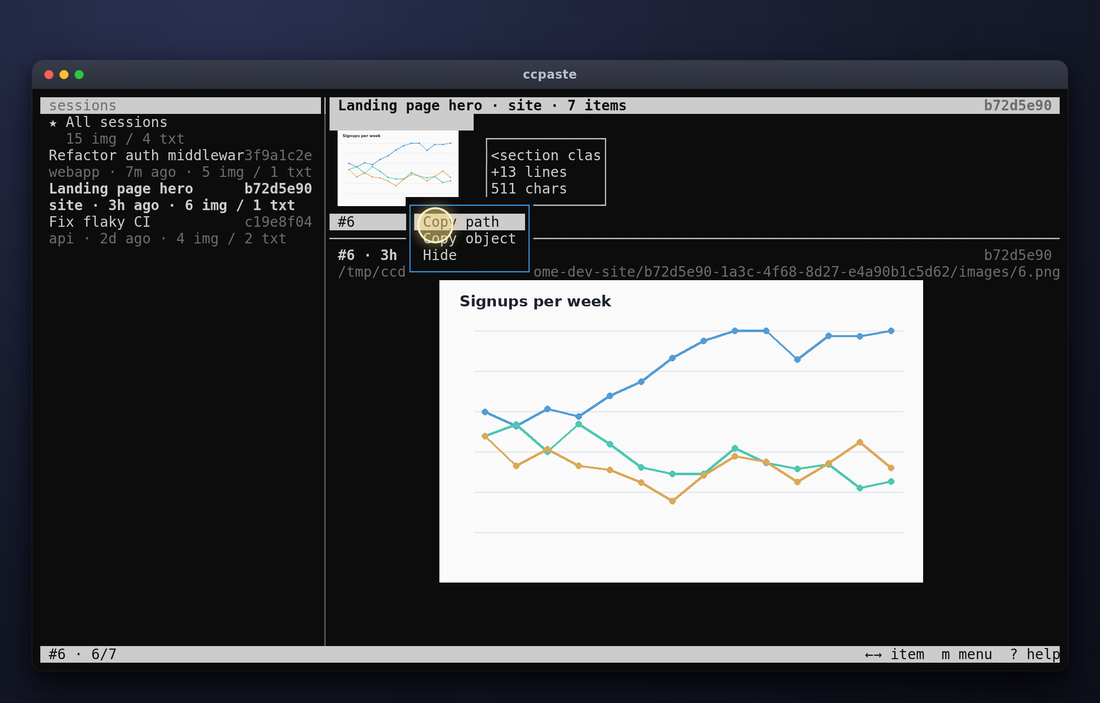
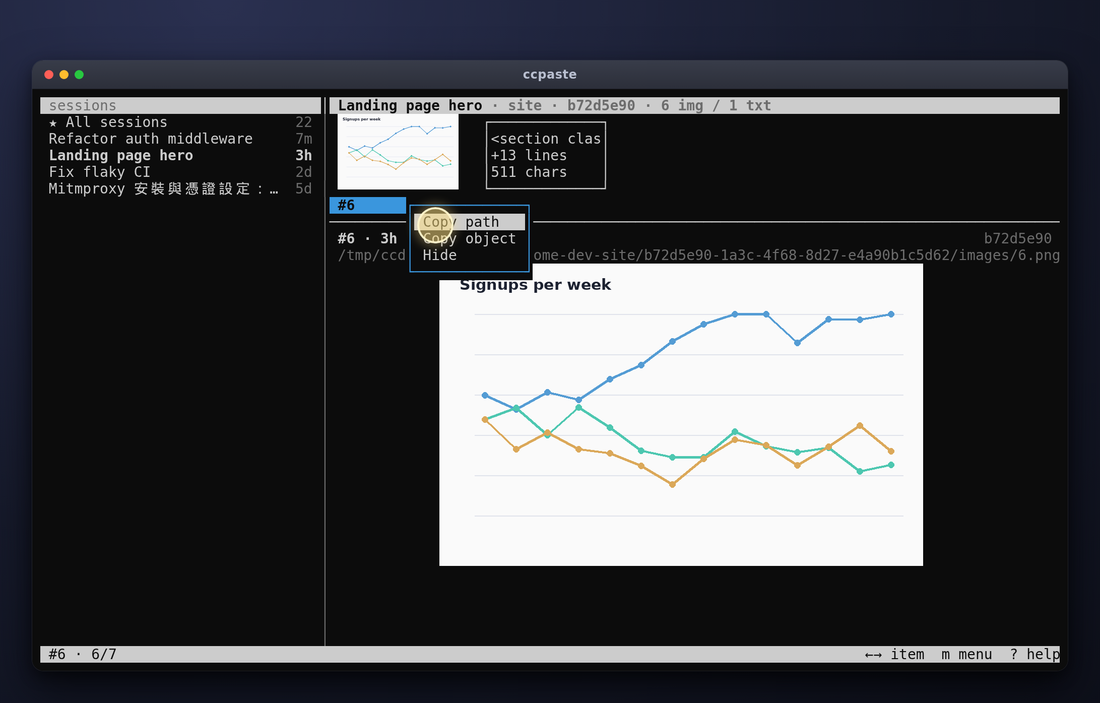
feat: one-line sidebar rows, session details in the header
Two rows per session with the id glued to the title read as noise on real
data. Rows are now title plus a dim age; project, id and counts move to
the header, where a long title is cut so they stay visible. The empty bar
above each thumbnail is gone and the selected label is highlighted.

diff --git a/tests/test_ccpaste.py b/tests/test_ccpaste.py
@@ -130,14 +130,14 @@ class T(unittest.TestCase):
         L = ccpaste.layout(120, 40, 7, 6)
         self.assertEqual(L["per_row"], 7)
         self.assertEqual(L["strip_rows"], 1)
-        self.assertEqual(L["prev_top"], 1 + 7 + 1)
-        self.assertEqual(L["prev_h"], 40 - 9 - 1)
-        self.assertEqual(L["body_top"], 11)
+        self.assertEqual(L["prev_top"], 1 + 6 + 1)
+        self.assertEqual(L["prev_h"], 40 - 8 - 1)
+        self.assertEqual(L["body_top"], 10)
         self.assertEqual(L["tw"], 17)               # 120 cols / 7 cells, stretched to the pane width
         self.assertEqual(ccpaste.tw_for(40), (2, 20))
-        L = ccpaste.layout(120, 40, 30, 29)       # 5 rows of thumbs, 1 visible, scrolled to selection
-        self.assertEqual(L["first_row"], 4)
-        self.assertEqual(ccpaste.cell_pos(L, 29)[0], 1)
+        L = ccpaste.layout(120, 40, 30, 29)       # 5 rows of thumbs, 2 visible, scrolled to selection
+        self.assertEqual((L["strip_rows"], L["first_row"]), (2, 3))
+        self.assertEqual(ccpaste.cell_pos(L, 29)[0], 1 + ccpaste.TH)
         self.assertIsNone(ccpaste.cell_pos(L, 0))
         self.assertEqual(ccpaste.fit_pixels(2000, 1000, 800, 600), (800, 400))
         self.assertEqual(ccpaste.fit_pixels(10, 10, 800, 600), (10, 10))
@@ -205,15 +205,16 @@ class T(unittest.TestCase):
             self.assertEqual(by["aaaa1111"]["proj"], "projA")
             self.assertAlmostEqual(by["aaaa1111"]["ts"], now - 5000, delta=2)   # latest history ts beats image mtime
             self.assertEqual(len(ccpaste.match_sessions("dddd")), 1)                # -s still sees empty sessions
-            l1, l2, idt = ccpaste.side_row(ss[2], 40, time.time())
-            self.assertTrue(idt.startswith("aaaa1111"))
-            self.assertIn("projA", l2)
-            self.assertIn("2 img / 1 txt", l2)
-            self.assertEqual(sum(ccpaste.cwidth(ch) for ch in l1 + idt), 40)
+            l1, tm = ccpaste.side_row(ss[2], 40, time.time())
+            self.assertEqual(tm, "1h ")                               # latest history ts = 5000s ago
+            self.assertTrue(l1.startswith(" first"))
+            self.assertNotIn("aaaa1111", l1 + tm)                     # id, project and counts left the sidebar
+            self.assertNotIn("projA", l1 + tm)
+            self.assertEqual(sum(ccpaste.cwidth(ch) for ch in l1 + tm), 40)
             self.assertEqual(by["aaaa1111"]["title"], "first \u4e2d\u6587 prompt [Pasted text #2 +3 lines]")   # no transcript -> prompt
             allrow = ccpaste.all_entry(ss)
             self.assertEqual(ccpaste.side_row(allrow, 40)[0].strip(), "\u2605 All sessions")
-            self.assertIn("3 img / 2 txt", ccpaste.side_row(allrow, 40)[1])
+            self.assertEqual(ccpaste.side_row(allrow, 40)[1], "5 ")
             # All view: every session's items, time ordered, newest last, labels carry the 4-char session prefix
             allitems = ccpaste.list_items_all(ss)
             self.assertEqual([i.dlabel(True) for i in allitems],
@@ -543,10 +544,9 @@ class T(unittest.TestCase):
                 self.assertEqual(app.hit(5, 0), ("header",))
                 self.assertEqual(app.hit(5, rows - 1), ("footer",))
                 self.assertEqual(app.hit(2, 1), ("side", 0))
-                self.assertEqual(app.hit(2, 2), ("side", 0))          # a row is two lines
-                self.assertEqual(app.hit(2, 3), ("side", 1))
-                self.assertEqual(app.hit(2, 5), ("side", 2))
-                self.assertEqual(app.hit(2, 7), ("side_blank",))
+                self.assertEqual(app.hit(2, 2), ("side", 1))          # one line per session
+                self.assertEqual(app.hit(2, 3), ("side", 2))
+                self.assertEqual(app.hit(2, 4), ("side_blank",))
                 self.assertEqual(app.hit(x0 - 1, 10), ("divider",))
                 self.assertEqual(app.hit(x0 + 1, L["strip_top"] + 1), ("thumb", 0))
                 self.assertEqual(app.hit(x0 + L["tw"] + 1, L["strip_top"] + 3), ("thumb", 1))
@@ -559,6 +559,135 @@ class T(unittest.TestCase):
                 app.L()
                 self.assertEqual(app.x0, 0)
                 self.assertEqual(app.hit(1, app.L()["strip_top"] + 1), ("thumb", 0))
+
+    def test_sidebar_one_row_per_session(self):
+        import unittest.mock as um
+        now = 1e6
+        ents = [dict(sid="s%d" % i, proj="proj", title="title %d" % i, ts=now - 86400 * 37, nimg=1, ntxt=1, prompt="")
+                for i in range(6)]
+        for sbw in (22, 33, 42):
+            for e in ents:
+                l, tm = ccpaste.side_row(e, sbw, now)
+                self.assertEqual(tm, "37d ")
+                self.assertEqual(sum(ccpaste.cwidth(ch) for ch in l + tm), sbw)
+                self.assertNotIn("\n", l)
+        with um.patch.object(ccpaste, "winsize", return_value=(40, 120, 0, 0)):
+            app = ccpaste.App()
+            app.rows = ents
+            app.x0 = 34
+            app.sel_sid = "s2"
+            app._out = []
+            app.w = app._out.append
+            app.blank = lambda *a: None
+            app.draw_sidebar(40)
+            out = "".join(app._out)
+            for k in range(6):                                   # session k sits on screen row 1 + k, nothing between
+                self.assertIn("\x1b[%d;1H" % (2 + k), out)
+            self.assertNotIn("\x1b[8;1H", out)
+            self.assertNotIn("proj", out)
+            for k in range(6):
+                self.assertEqual(app.hit(3, 1 + k), ("side", k))
+
+    def test_sidebar_title_time_gap_and_cjk(self):
+        now = 1e6
+        w = ccpaste.cwidth
+        for title in ("short", "x" * 80, "\u4e2d\u6587\u6a19\u984c" * 12, "a\u4e2d" * 30):
+            for sbw in (22, 23, 30, 42):
+                e = dict(sid="s1", proj="p", title=title, ts=now - 7 * 60, nimg=0, ntxt=0, prompt="")
+                l, tm = ccpaste.side_row(e, sbw, now)
+                self.assertEqual(tm, "7m ")
+                self.assertEqual(sum(w(ch) for ch in l + tm), sbw)
+                self.assertTrue(l.endswith("  "), (title, sbw, l))     # always >= 2 spaces before the time
+                if len(title) > 8 and sum(w(ch) for ch in " " + title) > sbw - 5:
+                    self.assertIn("\u2026", l)
+        self.assertEqual([ccpaste.rel_short(1000 - d, 1000) for d in (0, 59, 60, 7 * 60, 3 * 3600, 37 * 86400)],
+                         ["now", "now", "1m", "7m", "3h", "37d"])
+        self.assertEqual(ccpaste.side_row(dict(sid="s", proj="p", title="t", ts=0, nimg=0, ntxt=0, hidden=True), 30, 60)[0][:3],
+                         " \u2298 ")
+
+    def test_header_content(self):
+        parts = ["Louis", "c4045b9d", "0 img / 1 txt"]
+        full = " Mitmproxy \u5b89\u88dd \u00b7 Louis \u00b7 c4045b9d \u00b7 0 img / 1 txt"
+        for w in (sum(ccpaste.cwidth(ch) for ch in full) + 1, 80):
+            p, s = ccpaste.header_line("Mitmproxy \u5b89\u88dd", parts, w)
+            self.assertEqual((p + s).rstrip(), full)
+            self.assertEqual(p, " Mitmproxy \u5b89\u88dd")                 # primary and dimmed secondary are separate strings
+            self.assertTrue(s.startswith(" \u00b7 Louis"))
+            self.assertEqual(sum(ccpaste.cwidth(ch) for ch in p + s), w)
+        for w in (30, 40, 50):                                          # parts that do not fit are dropped, order kept
+            p, s = ccpaste.header_line("Mitmproxy \u5b89\u88dd", parts, w)
+            self.assertEqual(sum(ccpaste.cwidth(ch) for ch in p + s), w)
+            self.assertTrue(full.startswith((p + s).rstrip()))
+        self.assertNotIn("txt", "".join(ccpaste.header_line("Mitmproxy \u5b89\u88dd", parts, 40)))
+        p, s = ccpaste.header_line("x" * 100, parts, 71)                # long title: cut to make room, parts stay
+        self.assertTrue(p.rstrip().endswith("\u2026"))
+        self.assertIn("0 img / 1 txt", s)
+        self.assertEqual(sum(ccpaste.cwidth(ch) for ch in p + s), 71)
+        p, s = ccpaste.header_line("x" * 100, parts, 30)                # very narrow: title keeps half, extra parts drop
+        self.assertGreaterEqual(sum(ccpaste.cwidth(ch) for ch in p.rstrip()), 15)
+        self.assertNotIn("txt", s)
+        self.assertEqual(sum(ccpaste.cwidth(ch) for ch in p + s), 30)
+
+    def test_header_drawn_for_selected_session(self):
+        import unittest.mock as um
+        with um.patch.object(ccpaste, "winsize", return_value=(40, 120, 0, 0)):
+            app = self._app_with_items(1)
+            app.x0, app.title, app.project = 34, "Mitmproxy", "Louis"
+            app._out = []
+            app.w = app._out.append
+            app.header(120)
+            out = "".join(app._out)
+            self.assertIn("Mitmproxy", out)
+            self.assertIn(" \u00b7 Louis \u00b7 s1 \u00b7 0 img / 1 txt", out)
+
+    def test_strip_has_no_bar_row(self):
+        import unittest.mock as um
+        self.assertEqual(ccpaste.TH, ccpaste.THUMB_ROWS + 1)             # image rows + label, no bar
+        with um.patch.object(ccpaste, "winsize", return_value=(40, 120, 0, 0)):
+            app = self._app_with_items(3)
+            L = app.L()
+            self.assertEqual(L["sep"], L["strip_top"] + ccpaste.TH)
+            self.assertEqual(ccpaste.cell_pos(L, 0)[0], L["strip_top"])
+            app._out = []
+            app.w = app._out.append
+            app.blankx = lambda *a: None
+            app.chrome(L, 1, True)
+            out = "".join(app._out)
+            self.assertEqual(out.count("\x1b["+str(L["strip_top"] + ccpaste.TH) + ";"), 1)   # one write: the label row only
+            self.assertIn("1;7;36m", out)                               # selected label in highlight colour
+            self.assertEqual(out.count("\x1b[0m"), 1)
+            app._out.clear()
+            app.chrome(L, 0, False)
+            self.assertIn("\x1b[2m", "".join(app._out))
+            app._out.clear()
+            app.text_thumb(L["strip_top"], 0, L["tw"], app.items[0])    # text box starts on the first strip row
+            self.assertTrue(app._out[0].startswith("\x1b[%d;" % (L["strip_top"] + 1)))
+            self.assertEqual(len(app._out), 5)
+            app.items.append(ccpaste.Item("img", 9, path="/nonexistent/9.png", sid="s1", ts=1.0))
+            thumbs = [p for p in app.placements() if p["kind"] == "thumb"]
+            self.assertEqual(len(thumbs), 1)                            # the image cell gets a sixel placement
+            r0 = ccpaste.cell_pos(L, len(app.items) - 1)[0]
+            self.assertEqual(thumbs[0]["r"], r0)                        # image starts on the cell's first row ...
+            self.assertEqual(thumbs[0]["r"] + thumbs[0]["h"], r0 + ccpaste.TH - 1)   # ... and stops above the label
+            app.items.pop()
+            for k in range(ccpaste.TH):                                # every strip row hits a thumbnail, none is a dead bar
+                self.assertEqual(app.hit(app.x0 + 1, L["strip_top"] + k), ("thumb", 0))
+
+    def test_click_sidebar_row_selects_session(self):
+        import unittest.mock as um
+        with um.patch.object(ccpaste, "winsize", return_value=(40, 120, 0, 0)):
+            app = self._app_with_items()
+            app.sel_sid = "*"
+            app.refresh = lambda *a, **k: None
+            app.set_focus = lambda f: setattr(app, "focus", f)
+            for n in (1, 2, 0):
+                app.on_mouse(dict(kind="down", btn=0, x=3, y=1 + n))
+                app.on_mouse(dict(kind="up", btn=0, x=3, y=1 + n))
+                self.assertEqual(app.sel_sid, app.rows[n]["sid"])
+            app.rows = app.rows + [dict(sid="x%d" % i, proj="p", title="t", ts=0, nimg=1, ntxt=0, prompt="") for i in range(60)]
+            app.sfirst = 0
+            app.on_wheel(dict(dir="down", x=3, y=2))
+            self.assertEqual(app.sfirst, 1)
 
     def test_selection_text_cjk_multiline(self):
         lines = ["hello world", "\u4e2d\u6587\u5b57\u7b26 test", "third line"]
@@ -720,7 +849,7 @@ class T(unittest.TestCase):
             self.assertIn(b"\x1b[?1002h", buf)                       # mouse tracking enabled
             self.assertIn(b"\x1b[?1006h", buf)
             x0 = ccpaste.sidebar_geom(120)[1]
-            send("\x1b[<0;5;4M\x1b[<0;5;4m", 0.8)                  # click sidebar row (All sessions is row 0; this is row 1)
+            send("\x1b[<0;5;3M\x1b[<0;5;3m", 0.8)                  # click sidebar row (All sessions is row 0; this is row 1)
             send("\x1b[<0;%d;3M\x1b[<0;%d;3m" % (x0 + 4, x0 + 4), 0.8)          # click first thumbnail (the image)
             self.assertIn(b"\x1bP9;1q", buf)                         # sixel emitted
             send("\x1b[<65;%d;3M" % (x0 + 4))                       # wheel over thumbnails -> next item (text)
@@ -994,14 +1123,13 @@ class T(unittest.TestCase):
             ev = ccpaste.InputParser().feed("\x1b[<%d;5;5M" % cb)[0][1]
             self.assertEqual(ev["kind"], kind, cb)
         self.assertNotEqual(ccpaste.InputParser().feed("\x1b[<128;5;5M")[0][1]["kind"], "scroll")
-        with um.patch.object(ccpaste, "winsize", return_value=(39, 120, 0, 0)):      # rows-2 odd: last line is blank
+        with um.patch.object(ccpaste, "winsize", return_value=(39, 120, 0, 0)):      # 25 rows: lines below are blank
             app = ccpaste.App()
             app.rows = [dict(sid="s%d" % i, proj="p", title="t", ts=0, nimg=1, ntxt=0, prompt="") for i in range(25)]
-            self.assertEqual(app.hit(2, 36), ("side", 17))
-            self.assertEqual(app.hit(2, 35), ("side", 17))
-            self.assertEqual(app.hit(2, 37), ("side_blank",))
+            self.assertEqual(app.hit(2, 25), ("side", 24))
+            self.assertEqual(app.hit(2, 26), ("side_blank",))
             app.sfirst = 3
-            self.assertEqual(app.hit(2, 36), ("side", 20))
+            self.assertEqual(app.hit(2, 10), ("side", 12))
 
     def test_clipboard_tool_runs_off_the_ui_thread(self):
         import unittest.mock as um

diff --git a/README.zh-TW.md b/README.zh-TW.md
@@ -117,7 +117,7 @@ ccpaste --list -s <id>   # print that session's item labels and exit
 * `ccpaste --list`：印出 session（標題、id、專案、時間、數量）後結束。
 * `ccpaste --list -s <id>`：印出該 session 的項目標籤後結束。
 
-畫面分為兩半：左側是 session 側邊欄（第一列為「All sessions」，之後每個 session 兩行：第一行為標題與 8 個字元的 id，第二行為專案、距今時間與數量），右側是所選 session 的內容（縮圖列、資訊列、大圖預覽）。未使用 `-s` 時，側邊欄預設焦點在最新的 session；使用 `-s` 時，預設焦點在右側窗格。新的項目與 session 會自動出現（約每秒輪詢一次）；目前顯示的 session 中新到達的項目會成為選取項目。
+畫面分為兩半：左側是 session 側邊欄（第一列為「All sessions」，之後每個 session 一行：標題，右側以淡色顯示距今時間，如 `now`、`7m`、`3h`、`37d`），右側是所選 session 的內容（標題列顯示標題、專案、8 個字元的 id 與圖片 / 文字數量，其下為縮圖列、資訊列、大圖預覽；所選縮圖的標籤以醒目色顯示）。id 仍可由右鍵選單的「Copy session id」複製。未使用 `-s` 時，側邊欄預設焦點在最新的 session；使用 `-s` 時，預設焦點在右側窗格。新的項目與 session 會自動出現（約每秒輪詢一次）；目前顯示的 session 中新到達的項目會成為選取項目。
 
 | 焦點 | 按鍵 | 動作 |
 |---|---|---|

diff --git a/README.md b/README.md
@@ -112,7 +112,7 @@ ccpaste --list           # print the sessions (title, id, project, time, counts)
 ccpaste --list -s <id>   # print that session's item labels and exit
 ```
 
-The screen is split: a sidebar of sessions on the left (first row "All sessions", then one two-line row per session: title with the 8-character id, then project, age and counts) and the selected session's content on the right (thumbnail strip, info line, large preview). Without `-s` the sidebar starts focused on the newest session; with `-s` the right pane starts focused. New items and sessions appear automatically (polled about once a second); a newly arrived item in the shown session becomes the selection.
+The screen is split: a sidebar of sessions on the left (first row "All sessions", then one row per session: the title, and the age (`now`, `7m`, `3h`, `37d`) dimmed on the right) and the selected session's content on the right (a header line with the title, project, 8-character id and image / text counts, then the thumbnail strip, info line and large preview; the selected thumbnail's label is highlighted). The id stays available through the right-click menu, "Copy session id". Without `-s` the sidebar starts focused on the newest session; with `-s` the right pane starts focused. New items and sessions appear automatically (polled about once a second); a newly arrived item in the shown session becomes the selection.
 
 | Focus | Key | Action |
 |---|---|---|
